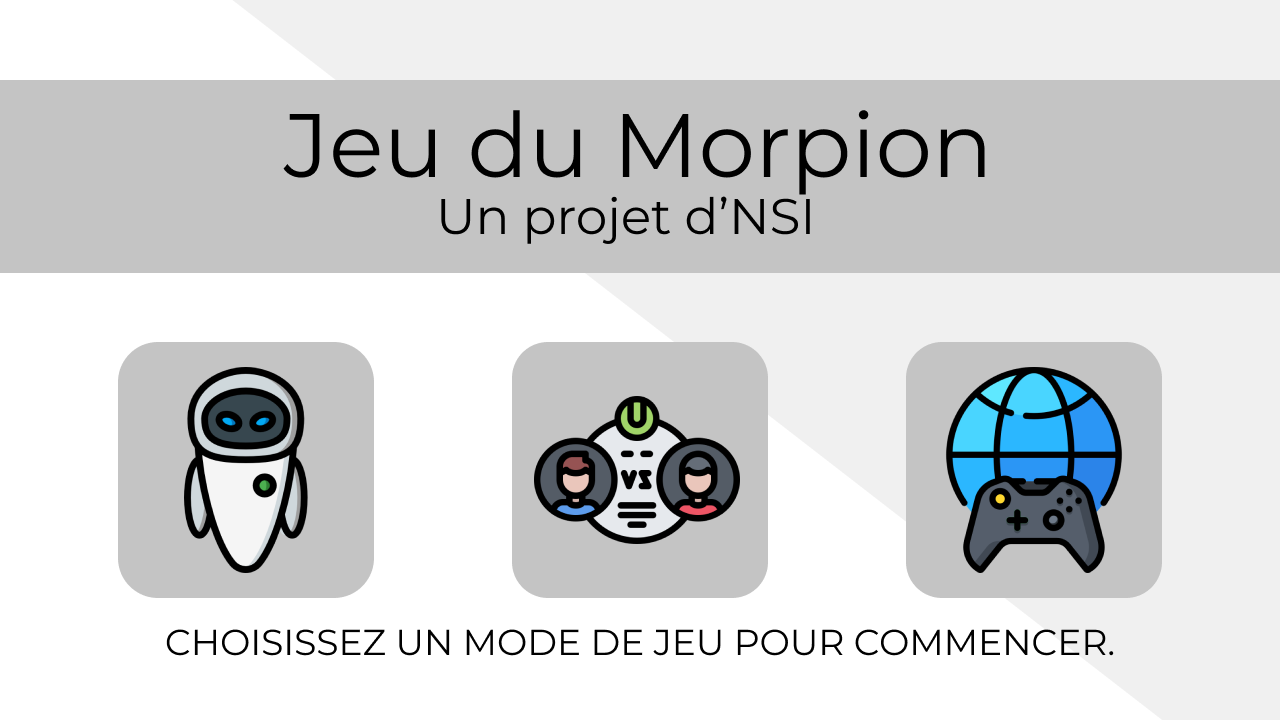
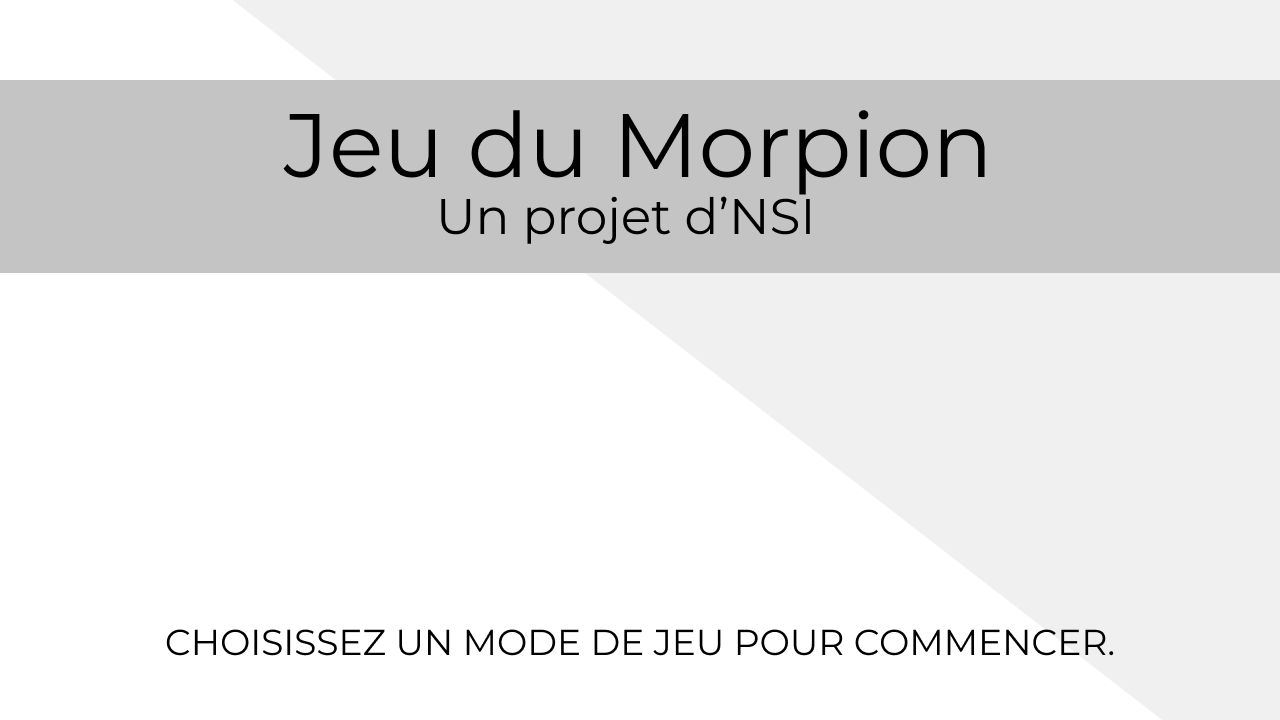
Changed menu

Changed region(s): [[0.375, 0.4583, 0.625, 0.8556], [0.6875, 0.4583, 0.9062, 0.8556], [0.0938, 0.4583, 0.3125, 0.8556]]

diff --git a/libs/core.py b/libs/core.py
@@ -19,36 +19,45 @@ class Core:
             raise TypeError("Les paramètres doivent être définis par des nombres")
 
     def start(self):
-        image = pygame.image.load(r'./assets/images/main_menu.png').convert()
+        background_image = self.__setImage('./assets/images/main_menu.png')
 
-        bot_area = pygame.Rect((117, 340), (261, 261))  # left, top, width, height
-        friend_area = pygame.Rect((511, 340), (261, 261))  # left, top, width, height
-        stranger_area = pygame.Rect((905, 340), (261, 261))  # left, top, width, height
-        close_area = pygame.Rect((1186, 0), (74, 74))  # left, top, width, height
+        bot_image = self.__setImage('./assets/images/modes/ia.png')
+        bot_image_rect = bot_image.get_rect()
+        bot_image = pygame.transform.scale(bot_image, (261, 261))
+
+        local_image = self.__setImage('./assets/images/modes/local.png')
+        local_image_rect = local_image.get_rect()
+        local_image = pygame.transform.scale(local_image, (261, 261))
+
+        online_image = self.__setImage('./assets/images/modes/online.png')
+        online_image_rect = online_image.get_rect()
+        online_image = pygame.transform.scale(online_image, (261, 261))
+
         run = True
         while run:
-            self.surf.blit(image, (0, 0))
+            self.surf.blit(background_image, (0, 0))
+            self.surf.blit(bot_image, (117, 340))
+            self.surf.blit(local_image, (511, 340))
+            self.surf.blit(online_image, (905, 340))
+
             for event in pygame.event.get():
                 if event.type == pygame.QUIT:
                     run = False
                 if event.type == pygame.MOUSEBUTTONDOWN:
                     if event.button == 1:  # clic gauche
-                        if bot_area.collidepoint(event.pos):
-                            image = self.__setImage('./assets/images/game_screen.png')
-                            self.bot()
-                        if friend_area.collidepoint(event.pos):
-                            image = self.__setImage('./assets/images/game_screen.png')
-                            self.friend()
-                        if stranger_area.collidepoint(event.pos):
-                            image = self.__setImage('./assets/images/game_screen.png')
-                            self.stranger()
-                        if close_area.collidepoint(event.pos):
-                            self.start()
+                        if bot_image_rect.collidepoint(event.pos):
+                            print('bot')
+                        if local_image_rect.collidepoint(event.pos):
+                            print('friend')
+                        if online_image_rect.collidepoint(event.pos):
+                            print('stranger')
+                        # if close_area.collidepoint(event.pos):
+                        #     print('close')
             pygame.display.update()
         pygame.quit()
 
     def __setImage(self, image: str):
-        return pygame.image.load(fr'{image}').convert()
+        return pygame.image.load(fr'{image}').convert_alpha()
 
     def bot(self):
         return True
